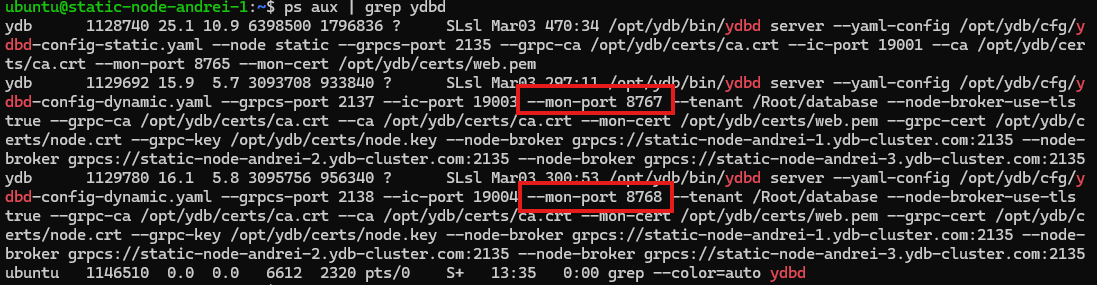
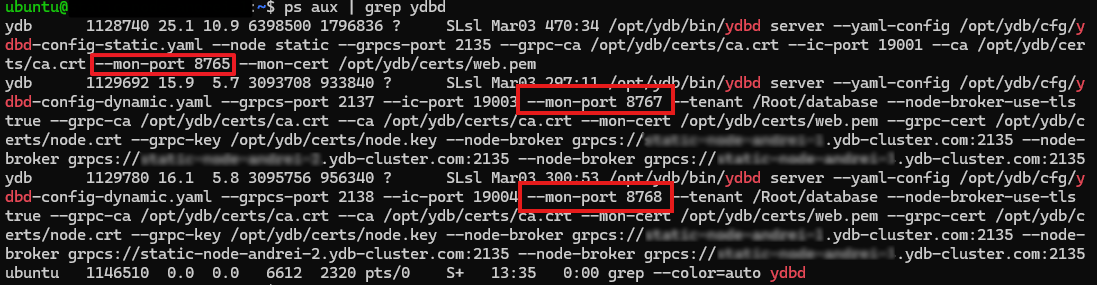
Changes after review according to comments

diff --git a/ydb/docs/ru/core/devops/observability/monitoring.md b/ydb/docs/ru/core/devops/observability/monitoring.md
@@ -19,11 +19,11 @@ http://<ydb-server-address>:<ydb-port>/counters/
 где:
 
 - `<ydb-server-address>` – адрес сервера {{ ydb-short-name }};
-- `<ydb-port>` – порт {{ ydb-short-name }}, указанный в параметре `--mon -port` при запуске узла. Значение по умолчанию: `8765`.
+- `<ydb-port>` – порт {{ ydb-short-name }}, указанный в параметре `--mon-port` при запуске узла. Значение по умолчанию: `8765`.
 
 {% cut "Как определить значение параметра `<ydb-port>`" %}
 
-Определите значение параметра `<ydb-port>` командой:
+Определите значение параметра `<ydb-port>` командой на **том хосте (сервере)**, где запущен узел {{ ydb-short-name }}: по SSH к этой машине или в локальной консоли на ней. Если в кластере несколько серверов, при необходимости выполните команду на каждом из них.
 
 ```bash
 ps aux | grep ydbd
@@ -31,7 +31,7 @@ ps aux | grep ydbd
 
 ![-](../../_assets/mon-port.png)
 
-Возьмите значение, указанное в параметре `--mon -port`.
+В выводе может быть несколько процессов `ydbd` с **разными** значениями `--mon-port` (например, статический и динамический узел на одном сервере). Добавьте в мониторинг **все** порты тех узлов, метрики которых нужно собирать. На скриншоте выделены отдельные значения только для примера — ориентируйтесь на фактический вывод команды на ваших хостах.
 
 {% endcut %}
 
@@ -137,7 +137,7 @@ http://<ydb-server-address>:<ydb-port>/counters/counters=<servicename>/prometheu
 
   {% cut "Как определить значения портов узлов баз данных" %}
 
-  Определите значения портов узлов баз данных командой:
+  Определите значения портов узлов баз данных командой на **хосте**, где запущен соответствующий узел: по SSH или в локальной консоли на этой машине.
 
   ```bash
     ps aux | grep ydbd
@@ -145,7 +145,7 @@ http://<ydb-server-address>:<ydb-port>/counters/counters=<servicename>/prometheu
 
   ![-](../../_assets/mon-port.png)
 
-  Возьмите значение, указанное в параметре `--mon -port`.
+  Если в выводе несколько процессов `ydbd` с разными `--mon-port`, перечислите в `targets` **все** порты динамических узлов, которые нужно опрашивать на данном сервере. На скриншоте выделены примеры — сопоставляйте порты с вашей фактической конфигурацией.
 
   {% endcut %}
 
@@ -187,7 +187,7 @@ http://<ydb-server-address>:<ydb-port>/counters/counters=<servicename>/prometheu
       ca_file: '<ydb-ca-file>'
   ```
 
-Разместите отредактированные файлы в одной директории и [запустите](https://prometheus.io/docs/prometheus/latest/getting_started/#starting-prometheus) Prometheus, указав в опциях запуска файл конфигурации `prometheus_ydb.yml`.
+Отредактированные файлы положите в **любую** удобную директорию на машине, где запускается Prometheus (рядом с бинарником или отдельно, например `/etc/prometheus`). В параметре `--config.file` укажите **полный или относительный путь** к `prometheus_ydb.yml`. Файлы `prometheus_ydb.yml`, `ydbd-storage.yml` и `ydbd-database.yml` держите в **одной** папке: в шаблоне к `ydbd-storage.yml` и `ydbd-database.yml` обращаются **относительные** пути, и Prometheus ищет их относительно **рабочей директории процесса** при старте. Запускайте Prometheus из этой папки (`cd` в неё перед командой) либо пропишите в `prometheus_ydb.yml` абсолютные пути к файлам целей. После этого [запустите](https://prometheus.io/docs/prometheus/latest/getting_started/#starting-prometheus) Prometheus.
 
 ### Настройка интеграции Grafana с Prometheus
 
